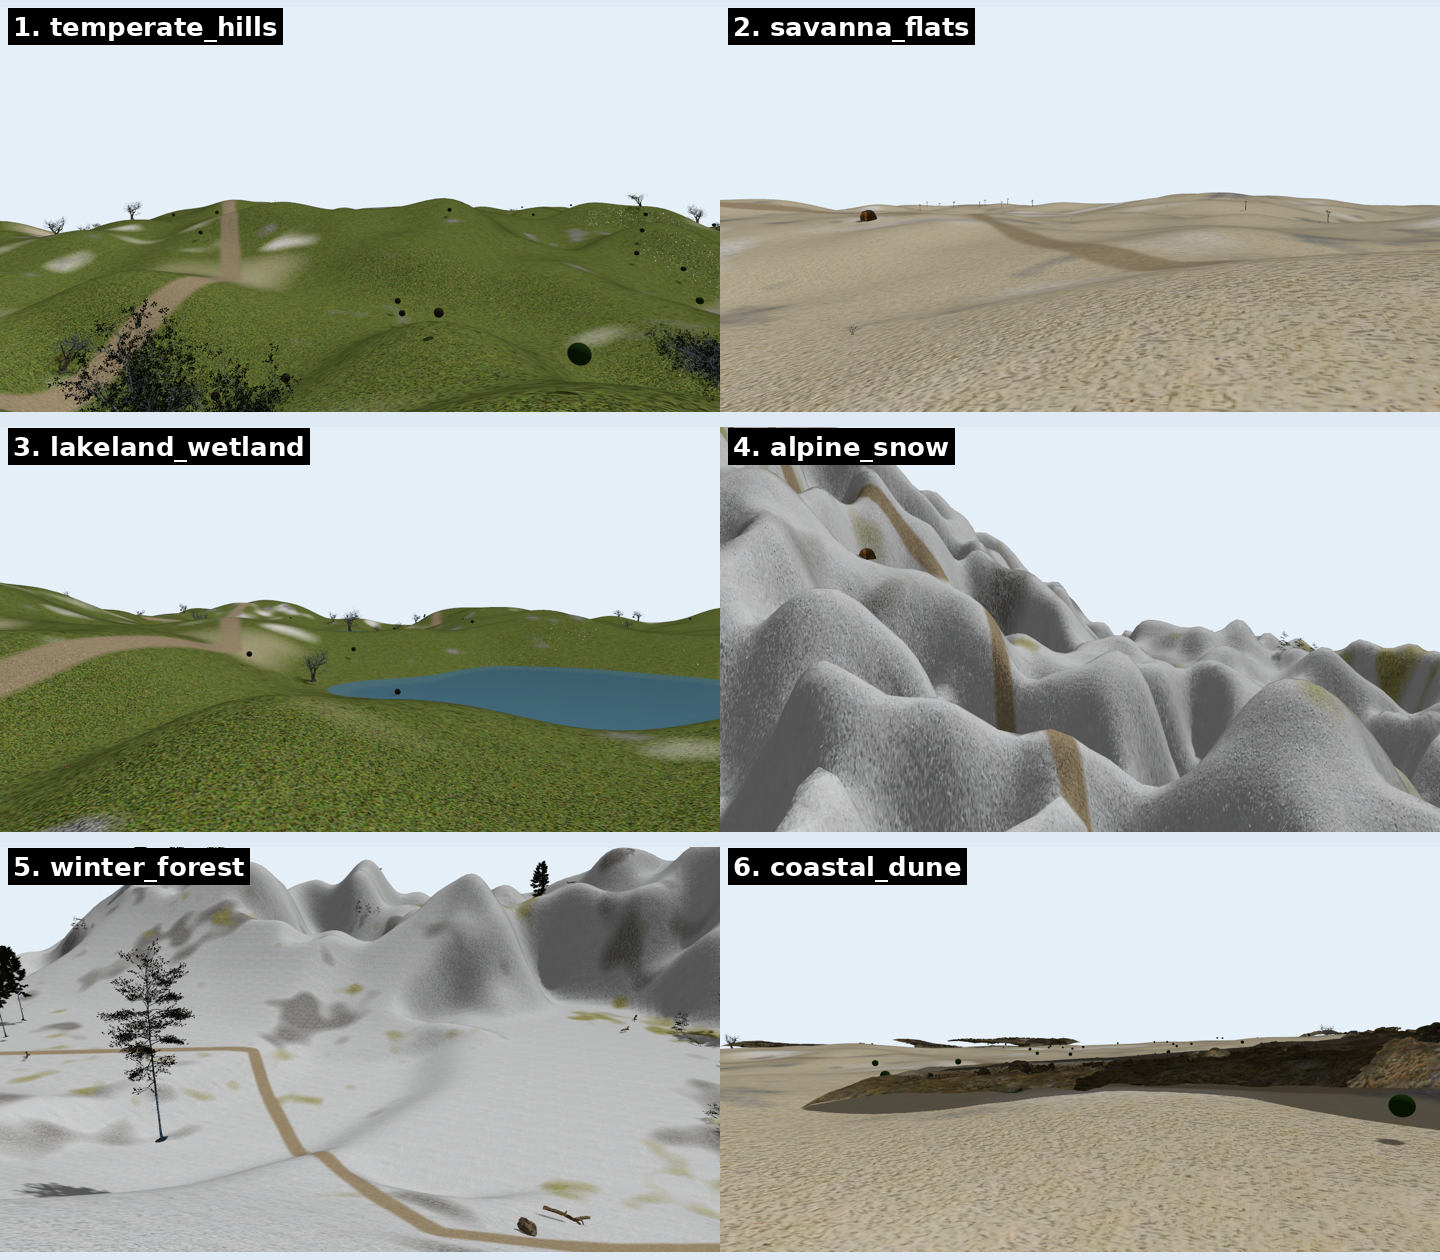
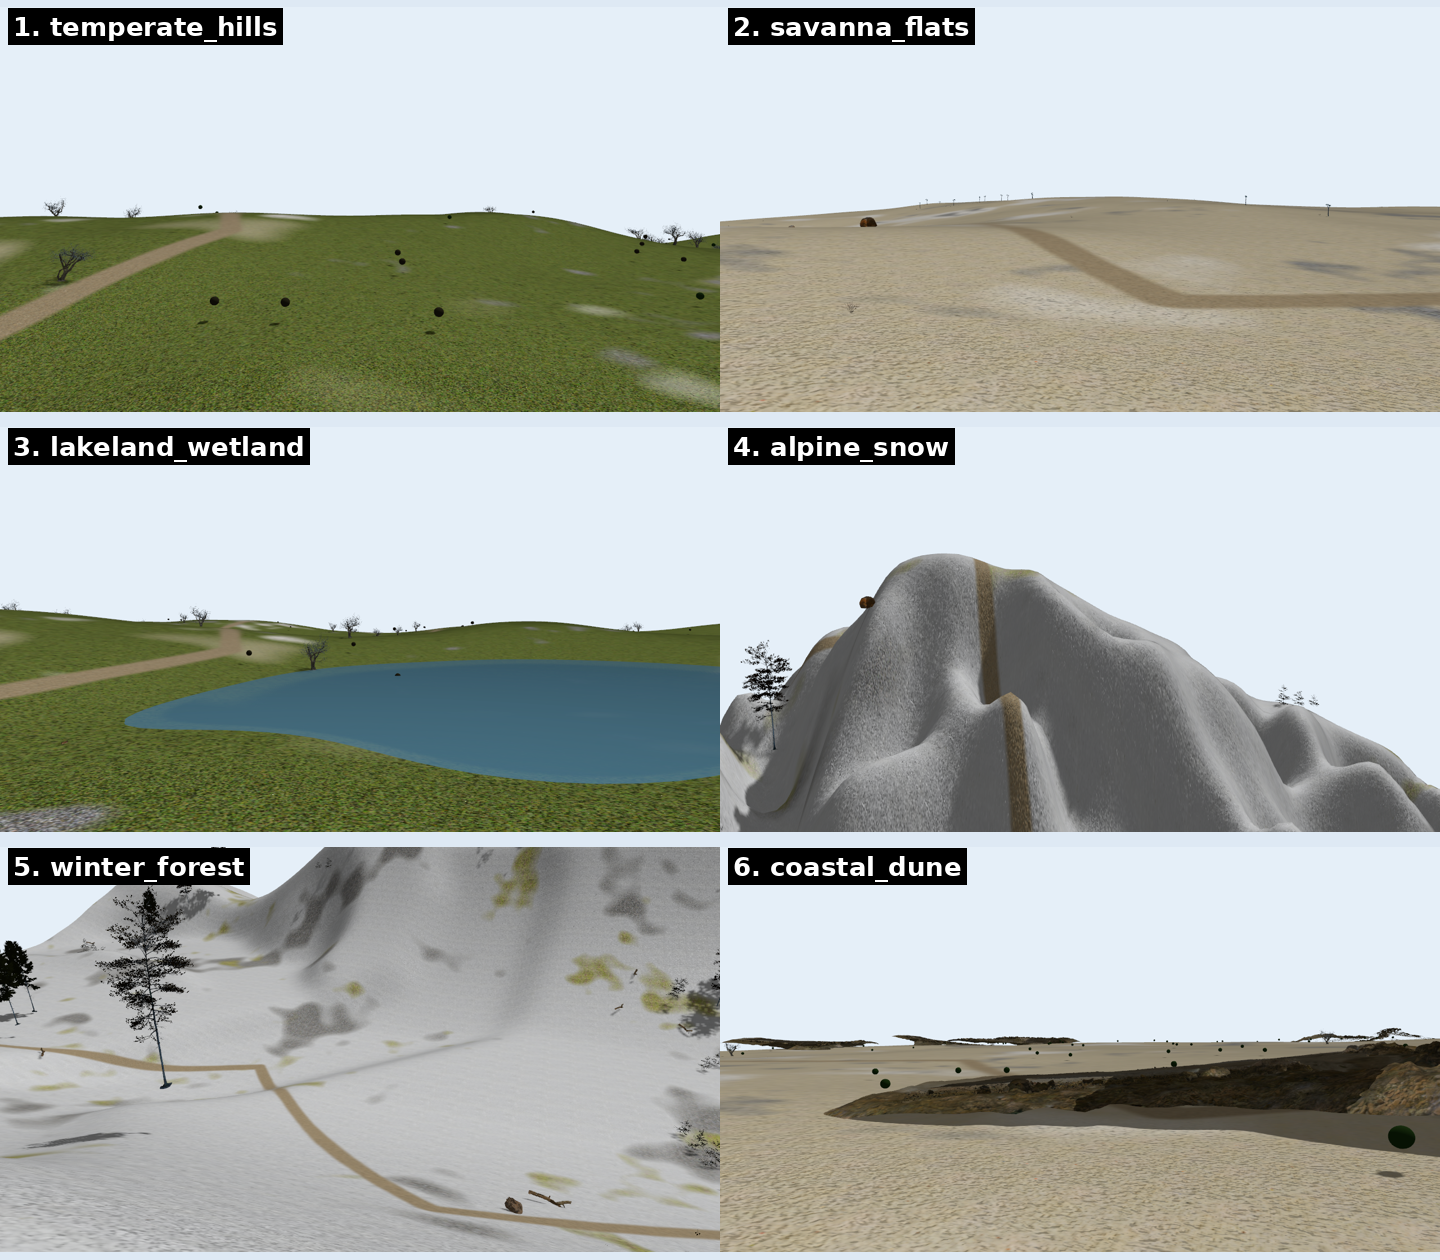
phaseA: terrain at robot/human scale (smooth rolling, no sub-2m sponginess)
Per-scene terrain shape retuned in build_scenarios.py: detail dropped hard (0.5->
0.12 temperate, 0.6->0.18/0.30 valley/alpine, etc.) to kill the sub-2 m fBm
sponginess that aliases for LIO; smooth raised (anti-facet); feature_m set as the
"tens of metres" rolling lever. alpine_snow keeps real relief (detail 0.30). Added
a per-scene `pixel` knob (held at 1.6 in A) — formally decouples terrain world size
from the density knob (density rises in Phase C); kept constant here so the metric
delta is attributable to terrain shape, not world size or framing.

Metric delta (comparable biomes vs originals), via spike/compare.py:
  coverage 0.62->0.58, FAST/MP 59%->47% — a small EXPECTED dip: lowering detail
  removes fbm surface noise that registered as fake features (real structure comes
  from objects in Phase C). Hero tilePk ROSE on the green scenes (lakeland 0.18->
  0.37) because smoothing the terrain exposed the tiled ground texture the noise was
  masking — confirming hero tilePk was never purely "tiled base ground", and setting
  up a clean attributable Phase B fix. Terrain reads smooth in scenarios_overview.png.

baseline_metrics.md updated with the AFTER PHASE A block + the note that the Phase B
gate is judged on top.tilePk (frame-stable; hero ground shrinks after the Phase D
camera re-pose).

Changed region(s): [[0.0, 0.1548, 1.0, 1.0], [0.3125, 0.2167, 0.3438, 0.2476]]

diff --git a/spike/build_scenarios.py b/spike/build_scenarios.py
@@ -34,28 +34,40 @@ BIOMES = yaml.safe_load(open(os.path.join(WS, "assets/manifest.yaml")))["biomes"
 
 # name, terraingen flags, biome(palette+ground), density, water, blurb
 SCN = [
-    dict(name="temperate_hills", biome="temperate",
-         tg=["--preset", "hilly", "--seed", "7", "--detail", "0.5"],
+    # Phase A (DEMO_REALISM_V2): terrain at robot/human scale. `detail` is dropped hard
+    # (kills sub-2 m fBm sponginess that aliases for LIO), `smooth` raised (anti-facet),
+    # `feature` set as the "tens of metres" rolling lever (independent of world size).
+    # `pixel` is now an explicit per-scene realism knob (held at 1.6 in A; the
+    # pixel/density decoupling happens in Phase C where density rises). alpine keeps
+    # real relief (higher detail/amplitude); temperate/coastal/savanna read smooth.
+    dict(name="temperate_hills", biome="temperate", pixel=1.6,
+         tg=["--preset", "hilly", "--seed", "7", "--amplitude", "26", "--feature", "110",
+             "--detail", "0.12", "--smooth", "1.6"],
          density={"tree": 90, "rock": 18, "bush": 70, "grass": 180}, water=False,
          blurb="Rolling green hills, broadleaf forest + understory"),
-    dict(name="savanna_flats", biome="savanna",
-         tg=["--preset", "hilly", "--seed", "3", "--amplitude", "14", "--detail", "0.4"],
+    dict(name="savanna_flats", biome="savanna", pixel=1.6,
+         tg=["--preset", "hilly", "--seed", "3", "--amplitude", "12", "--feature", "140",
+             "--detail", "0.10", "--smooth", "1.8"],
          density={"tree": 16, "rock": 34, "bush": 48, "grass": 140}, water=False,
          blurb="Arid flats, quiver trees + scrub + dry bloom"),
-    dict(name="lakeland_wetland", biome="wetland",
-         tg=["--preset", "lakeland", "--seed", "7"],
+    dict(name="lakeland_wetland", biome="wetland", pixel=1.6,
+         tg=["--preset", "lakeland", "--seed", "7", "--feature", "130",
+             "--detail", "0.12", "--smooth", "1.6"],
          density={"tree": 60, "rock": 14, "bush": 75, "grass": 150}, water=True,
          blurb="Basins holding water, reeds/ferns along the shores"),
-    dict(name="alpine_snow", biome="alpine",
-         tg=["--preset", "mountainous", "--seed", "7", "--ridged", "0.2", "--detail", "0.6"],
+    dict(name="alpine_snow", biome="alpine", pixel=1.6,
+         tg=["--preset", "mountainous", "--seed", "7", "--ridged", "0.3",
+             "--amplitude", "80", "--feature", "90", "--detail", "0.30", "--smooth", "1.2"],
          density={"tree": 40, "rock": 40, "bush": 24, "grass": 60}, water=False,
          blurb="SNOW - rugged massif, conifers + boulders"),
-    dict(name="winter_forest", biome="winter",
-         tg=["--preset", "valley", "--seed", "5", "--detail", "0.6"],
+    dict(name="winter_forest", biome="winter", pixel=1.6,
+         tg=["--preset", "valley", "--seed", "5", "--feature", "100",
+             "--detail", "0.18", "--smooth", "1.5"],
          density={"tree": 80, "rock": 18, "bush": 0, "grass": 70}, water=False,
          blurb="SNOW - snowy valley, conifers + dead trunks"),
-    dict(name="coastal_dune", biome="coastal",
-         tg=["--preset", "hilly", "--seed", "11", "--amplitude", "9", "--detail", "0.35"],
+    dict(name="coastal_dune", biome="coastal", pixel=1.6,
+         tg=["--preset", "hilly", "--seed", "11", "--amplitude", "7", "--feature", "150",
+             "--detail", "0.10", "--smooth", "2.0"],
          density={"tree": 18, "rock": 24, "bush": 60, "grass": 140}, water=False,
          blurb="Coastal dune, marram grass + dune shrubs + coast rocks"),
 ]
@@ -134,10 +146,11 @@ for s in SCN:
     pal = BIOMES[biome]
     ground = pal.get("ground", "grassland")
     print(f"=== {name} (biome={biome}, ground={ground}) ===", flush=True)
-    # --pixel 1.6 -> ~307 m world (vs 480 m at the 2.5 default): same plant sizes read
-    # bigger/denser, so scenes look populated rather than a few specks on a vast hill.
-    run(CLI + ["terraingen"] + s["tg"] + ["--size", "192", "--pixel", "1.6",
-               "-o", "dem/synth.tif"])
+    # pixel is a per-scene realism knob (Phase A); 1.6 -> ~307 m world at size 192.
+    # Terrain SHAPE (rolling scale, smoothness) is set via feature/detail/smooth in
+    # s["tg"]; density (Phase C) is decoupled from world size.
+    run(CLI + ["terraingen"] + s["tg"] + ["--size", "192",
+               "--pixel", str(s.get("pixel", 1.6)), "-o", "dem/synth.tif"])
     run(CLI + ["terrain", "--dem", "dem/synth.tif"])
     run(CLI + ["ground", "--mode", "patchy", "--biome", ground, "--seed", "7", "--res", "4096"])
     for d in os.listdir(MODELS):

diff --git a/docs/baseline_metrics.md b/docs/baseline_metrics.md
@@ -88,6 +88,35 @@ originals' counts — this is the CC0/biome ceiling, stated honestly, not a numb
 4. **FAST/MP at 59 %** of target — secondary (contaminated; see caveat), but directionally
    confirms under-population.
 
+## AFTER PHASE A — terrain at robot/human scale
+
+Terrain shape only: `detail` dropped hard (0.5→0.12 temperate etc.; kills sub-2 m fBm
+sponginess), `smooth` raised, `feature_m` set as the rolling-scale lever; alpine keeps
+real relief (detail 0.30). `pixel` held at 1.6 (world size unchanged) so the delta is
+attributable to terrain shape, not framing/density.
+
+| scene                  | ORB/MP | FAST/MP | cov  | unif | tilePk | period | top.tilePk |
+|------------------------|--------|---------|------|------|--------|--------|------------|
+| temperate_hills        |   3377 |   14800 | 0.56 | 0.00 | 0.341 |   243 | 0.263      |
+| savanna_flats          |   3013 |    8314 | 0.59 | 0.00 | 0.346 |   278 | 0.246      |
+| lakeland_wetland       |   3793 |   10597 | 0.53 | 0.00 | 0.371 |   295 | 0.281      |
+| alpine_snow            |   3536 |    9637 | 0.56 | 0.00 | 0.125 |   128 | 0.134      |
+| winter_forest          |   4986 |    7148 | 0.84 | 0.00 | 0.070 |   333 | 0.170      |
+| coastal_dune           |   4205 |    9459 | 0.62 | 0.00 | 0.367 |   221 | 0.155      |
+
+**Reading the delta (comparable biomes):** coverage 0.62→0.58 and FAST/MP 59%→47% — a
+small, *expected* dip: lowering `detail` removed fbm surface noise that was registering as
+fake features (real structure comes from objects in Phase C, not ground noise). Crucially,
+the green-scene **hero tilePk rose** (lakeland 0.18→0.37, temperate 0.30→0.34): smoothing
+the terrain *exposed* the tiled ground texture that the surface noise was masking. This
+confirms hero tilePk was never purely "tiled base ground" — and it sets up a clean,
+attributable Phase B fix (break the ground tiling and this drops). Terrain reads smooth in
+`spike/scenarios_overview.png`; alpine retains rugged relief. Gate met: smooth + no
+*unexplained* feature regression.
+
+> Note: per the framing caveat, the Phase B gate is judged on **top.tilePk** (ground always
+> fills the top-down frame; hero ground will shrink once Phase D re-poses the cameras).
+
 ## Open items carried into later phases (not Phase 0 bugs)
 
 - **Black blobs in temperate_hills** (round dark dots): **verified NOT the BLEND-foliage